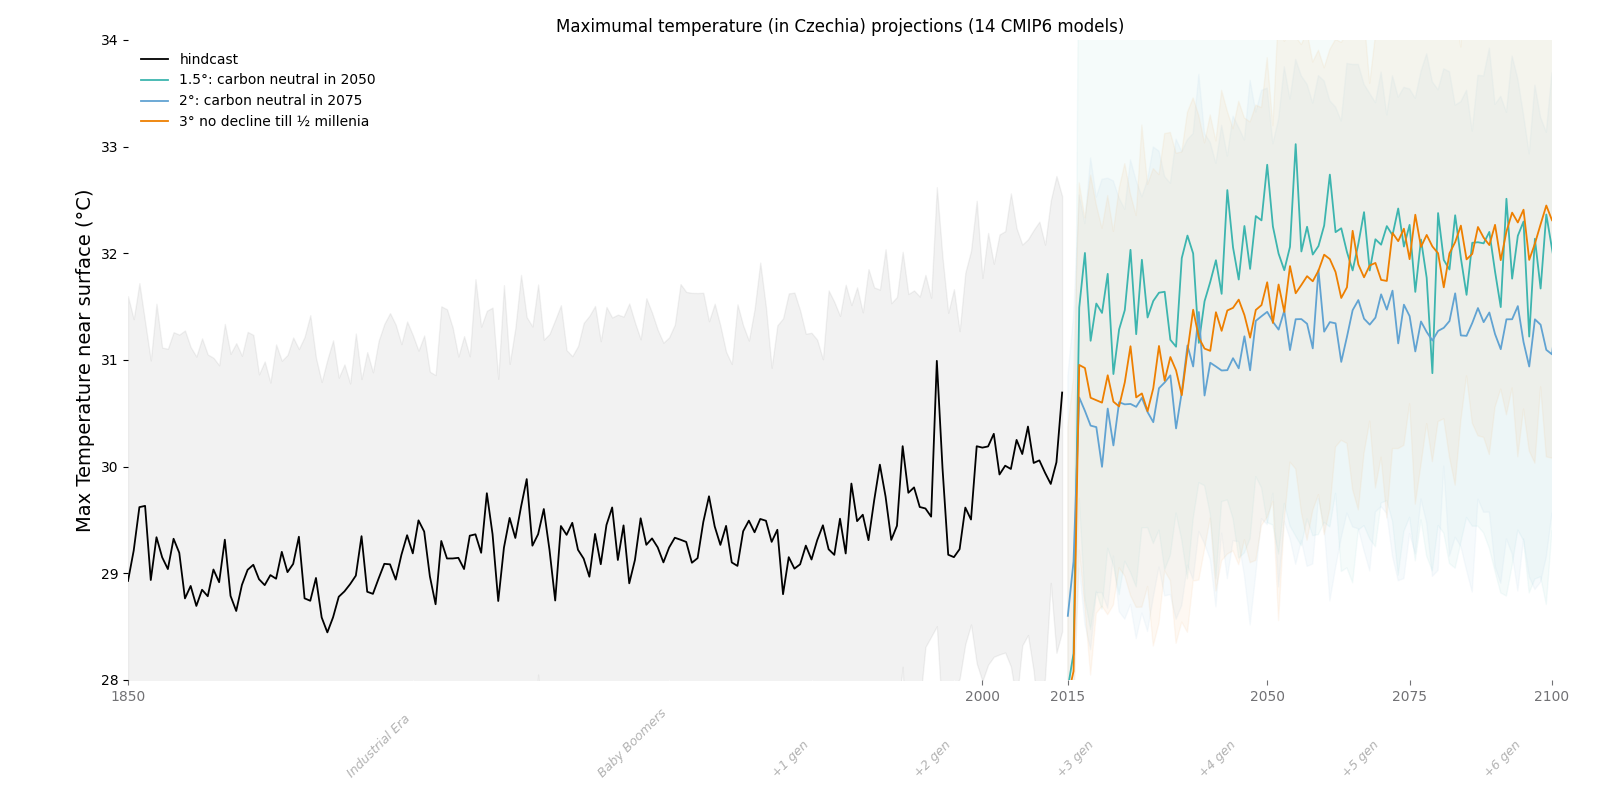
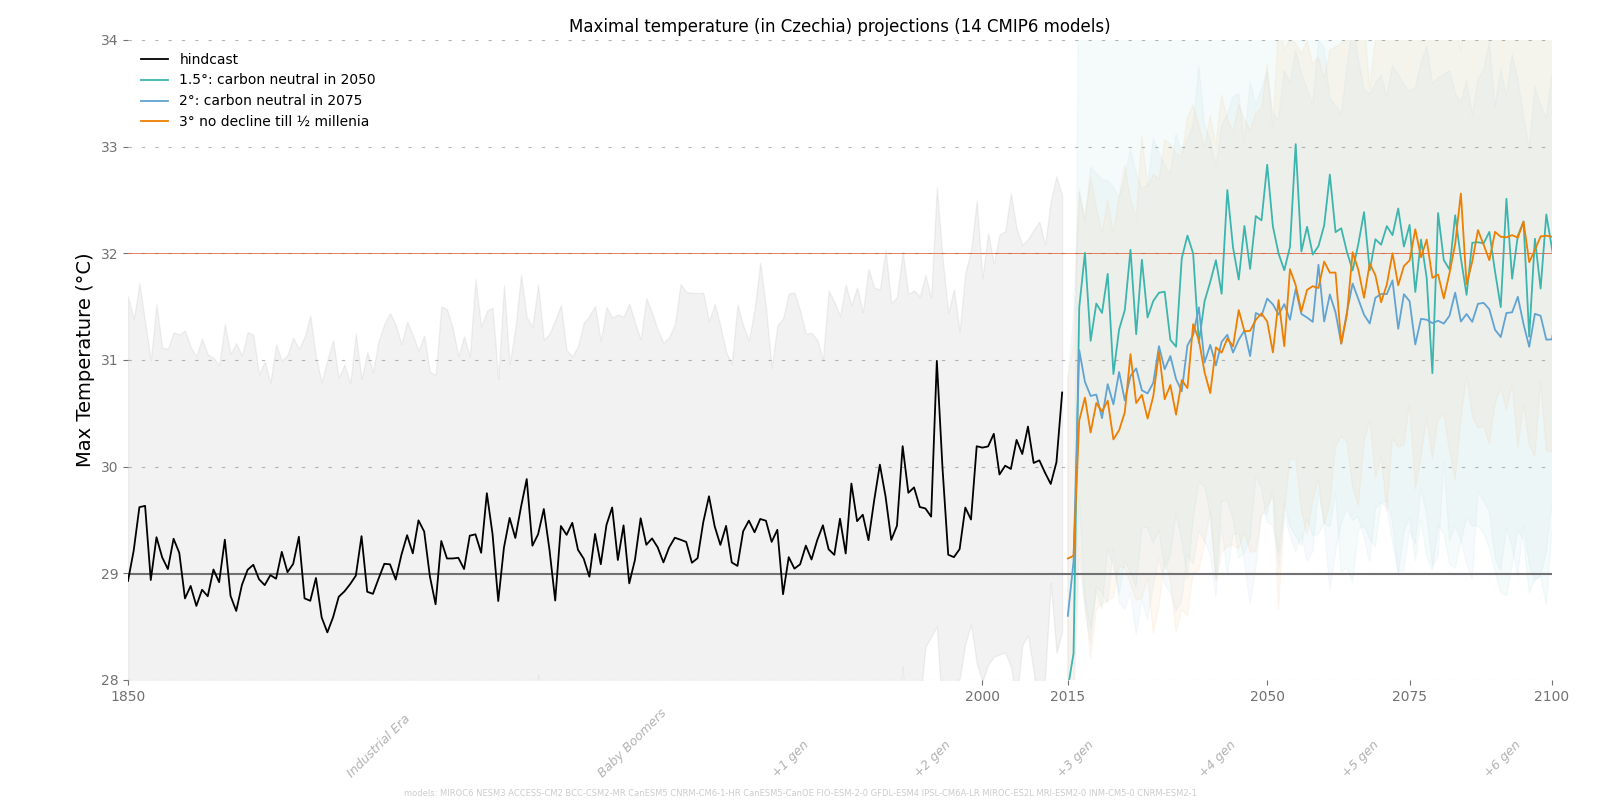
formatting improved

diff --git a/ClimateProjections.py b/ClimateProjections.py
@@ -17,15 +17,13 @@ from pathlib import Path
 import os
 from os.path import basename
 import cftime
-import urllib3
-urllib3.disable_warnings() # Disable warnings for data download via API
 
-# Libraries for working with multi-dimensional arrays
+# Data
 import numpy as np
 import xarray as xr
 import pandas as pd
 
-# Libraries for plotting and visualising data
+# Viz
 import matplotlib
 import matplotlib.path as mpath
 import matplotlib.pyplot as plt
@@ -33,10 +31,13 @@ import cartopy.crs as ccrs
 from cartopy.mpl.gridliner import LONGITUDE_FORMATTER, LATITUDE_FORMATTER
 import cartopy.feature as cfeature
 
+# Utils
 from downloader import download
-
 import util
 from util import debug
+
+# SETUP #
+# What to analyze:
 
 variable = 'temperature'
 #variable = 'max_temperature'
@@ -65,7 +66,7 @@ DATADIR = f'/Users/myneur/Downloads/ClimateData/{variable}/'
 
 models = md['validated_models']
 if variable == 'temperature':
-  download(models, experiments, DATADIR, mark_failing_scenarios=False, forecast_from=forecast_from)
+  download(models, experiments, DATADIR, mark_failing_scenarios=True, forecast_from=forecast_from)
 else:
   download(models, experiments, DATADIR, variable=variables[variable]['request'], area=md['area']['cz'], frequency='monthly', mark_failing_scenarios=True, forecast_from=forecast_from)
 
@@ -154,19 +155,16 @@ try:
 
   models_read = set(data.model.values.flat)
   model_count = len(models_read)
-  print(model_count)
-  print(models_read)
-  print('CMIP6 projections. Averages by 50th quantile. Ranges by 10-90th quantile.')
 
   colors = ['black','#3DB5AF','#61A3D2','#EE7F00', '#E34D21']
 
 
   def chart(zero=0, reference_lines=None):
-    fig, ax = plt.subplots(1, 1, figsize = (16, 8))
+    fig, ax = plt.subplots(1, 1)
     if variable == 'temperature':
-      ax.set(title=f'Global temperature projections ({model_count} CMIP6 models)', ylabel='Temperature near surface (°C)')  
+      ax.set(title=f'Global temperature projections ({model_count} CMIP6 models)', ylabel='Temperature')  
     else:
-      ax.set(title=f'Maximumal temperature (in Czechia) projections ({model_count} CMIP6 models)', ylabel='Max Temperature near surface (°C)')  
+      ax.set(title=f'Maximal temperature (in Czechia) projections ({model_count} CMIP6 models)', ylabel='Max Temperature (°C)')  
 
     ax.set(xlim=(1850, 2100))
     plt.subplots_adjust(left=.08, right=.97, top=0.95, bottom=0.15)
@@ -174,17 +172,12 @@ try:
 
     # SCALE
     if zero:
-      diff_temp = [round(val - zero, 1) for val in plt.gca().get_yticks()]
       yticks = [0, 1.5, 2, 3, 4]
       plt.gca().set_yticks([val + zero for val in yticks])
-      plt.tick_params(axis='y', colors='#717174')
-
       ax.set_ylim([-1 +zero, 4 + zero])
-
       plt.gca().set_yticklabels([f'{"+" if val > 0 else ""}{val:.1f} °C' for val in yticks])
     else:
       ax.set_ylim([28, 34])
-    plt.tick_params(axis='x', colors='#717174')
 
     xticks_major = [1850, 2000, 2015, 2050, 2075, 2100]
     xtickvals_major = ['1850', '2000', '2015', '2050', '2075', '2100']
@@ -197,17 +190,14 @@ try:
     ax.set_xticklabels(xtickvals_minor, minor=True, rotation=45, va='bottom', ha='right',  fontstyle='italic', color='#b2b2b2', fontsize=9)
     ax.xaxis.set_tick_params(which='minor', pad=70, color="white")
 
-
     if reference_lines: 
-      ax.axhline(y=zero, color='#717174') # base
-      for ref in reference_lines:
-        ax.axhline(y=zero+ref, color='#E34D21', linestyle='--', alpha=.5, linewidth=.5)
-      plt.grid(axis='y', linestyle=(0, (3, 9)), alpha=.5)
-
-    # LEGEND
-    legend = [scenarios[s] for s in data_50.experiment.values]
+      ax.axhline(y=zero+reference_lines[0], color='#717174') # base
+      for ref in reference_lines[1:]:
+        ax.axhline(y=zero+ref, color='#E34D21', linewidth=.5)
+      plt.grid(axis='y')
 
     # DATA
+    legend = [scenarios[s] for s in data_50.experiment.values]
     for i in np.arange(len(experiments)):
       try:
         # AVERAGES
@@ -219,14 +209,20 @@ try:
     ax.legend(handles, labels, loc='upper left', frameon=False)
 
 
+    # CONTEXT
+    context = "models: " + ' '.join(map(str, models_read))
+    plt.text(0.5, 0.005, context, horizontalalignment='center', color='#cccccc', fontsize=6, transform=plt.gcf().transFigure)
+    print(context)
+    print('CMIP6 projections. Averages by 50th quantile. Ranges by 10-90th quantile.')
+
     # OUTPUT
     fig.savefig(f'charts/chart_{variable}_{len(set(data.model.values.flat))}m.png')
     plt.show()
 
   if variable == 'temperature':
-    chart(zero=preindustrial_temp)
+    chart(zero=preindustrial_temp, reference_lines=[0, 2])
   else: 
-    chart()
+    chart(reference_lines=[preindustrial_temp, 32])
 except Exception as e:
   print(f'- failed {model}')
   print(f"Error: {type(e).__name__}: {e}")
